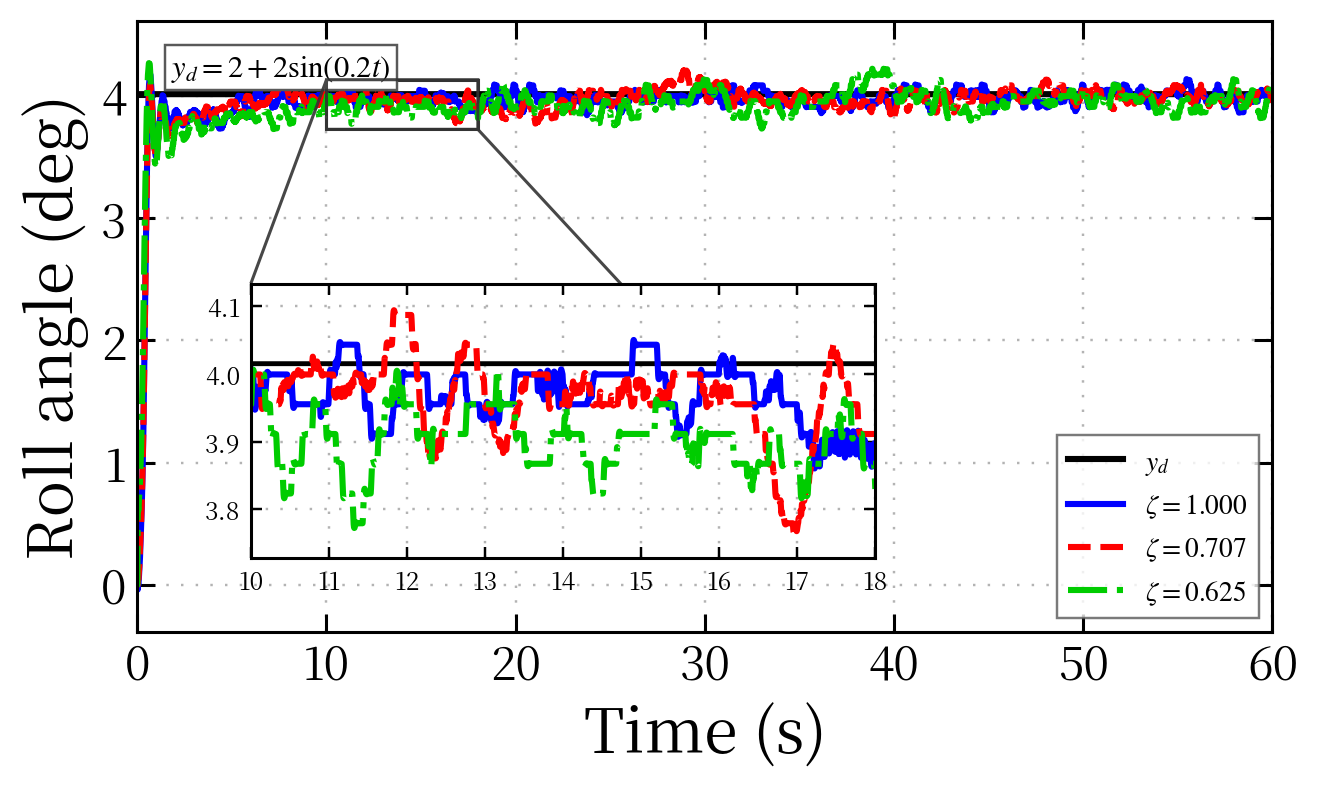
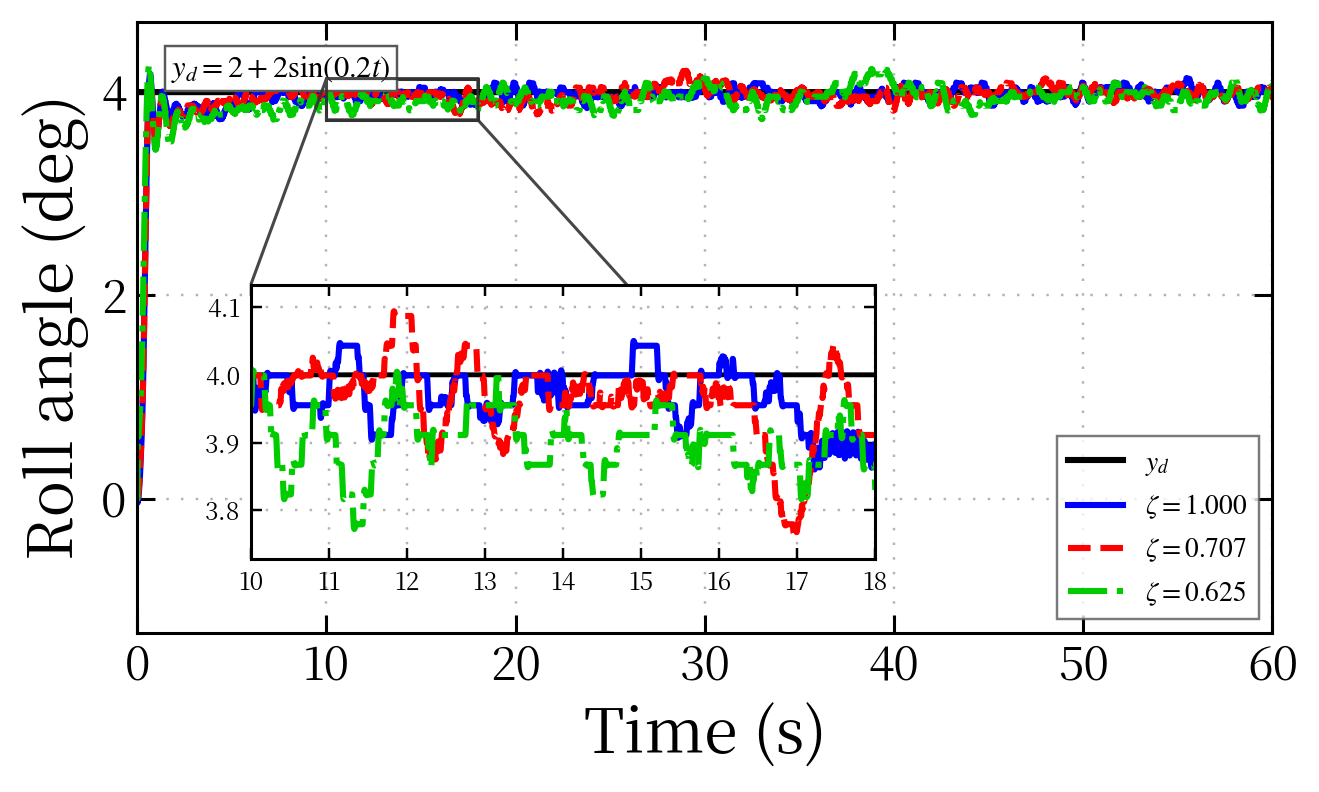
0406_first_complete

diff --git a/hitbook/chinese/body/5th.tex b/hitbook/chinese/body/5th.tex
@@ -173,11 +173,11 @@ u_i &= \mathrm{sat}(u_{c,i}),\\
 
 \subsection{实验1：预设阻尼比滑模反步控制实验}[Experiment 1: preset damping-ratio sliding-mode backstepping control]
 
-本实验采用第2章提出的神经网络预设阻尼比控制方法，在四旋翼悬浮机平台三姿态通道上进行验证。实验包含常值参考与时变参考两类任务，并在三组阻尼比参数（如 $\zeta=0.625,\ 0.707,\ 1.000$）下比较系统响应。考虑到纯 SBC+$\zeta$ 结构在实物平台上更容易受到强非线性影响而出现明显抖振，因此本节将其作为代表性对比基线单独展示，而将阻尼比可调性的主结果集中体现在神经网络方法的三组阻尼比实验曲线中。
+本实验采用第2章提出的神经网络预设阻尼比控制方法，在四旋翼悬浮机平台三姿态通道上进行验证。实验包含常值参考与时变参考两类任务，并在三组阻尼比参数（$\zeta=0.625,\ 0.707,\ 1.000$）下比较系统响应。考虑到纯 SBC+$\zeta$ 结构在实物平台上更容易受到强非线性影响而出现明显抖振，因此本节将其作为代表性对比基线单独展示，而将阻尼比可调性的主结果集中体现在神经网络方法的三组阻尼比实验曲线中。实验1的重点在于说明：在神经网络补偿主要未知非线性之后，预设阻尼比对应的瞬态差异能够在实物平台上更清楚地呈现出来。
 
 \subsubsection{常值参考实验}
 
-在常值信号跟踪任务中，图\ref{fig:ch5_sbc_const_pitch}--图\ref{fig:ch5_ann_const_yaw} 左列给出了纯 SBC+$\zeta$ 方法在三姿态通道上的实测结果，右列给出了神经网络预设阻尼比控制方法在相同通道上的实验结果。可以看到，在强非线性实物平台上，纯 SBC+$\zeta$ 方案虽然能够维持基本跟踪，但更容易在稳态附近出现较明显的高频抖振，这会掩盖阻尼比调节对输出瞬态形态的影响。相比之下，神经网络方法在三组阻尼比 $\zeta=1.000$、$\zeta=0.707$ 与 $\zeta=0.625$ 下能够更清晰地呈现出上升快慢、峰值变化和响应平缓程度的差异，从而更好地体现本文阻尼比可调设计的核心特点。
+在常值信号跟踪任务中，图\ref{fig:ch5_sbc_const_pitch}--图\ref{fig:ch5_ann_const_yaw} 左列给出了纯 SBC+$\zeta$ 方法在三姿态通道上的实测结果，右列给出了神经网络预设阻尼比控制方法在相同通道上的实验结果。可以看到，在强非线性实物平台上，纯 SBC+$\zeta$ 方案虽然能够维持基本跟踪，但更容易在稳态附近出现较明显的高频抖振，这会掩盖阻尼比调节对输出瞬态形态的影响。相比之下，神经网络方法在三组阻尼比 $\zeta=1.000$、$\zeta=0.707$ 与 $\zeta=0.625$ 下能够更清晰地呈现出上升快慢、峰值变化和响应平缓程度的差异，从而说明神经网络补偿后阻尼比可调性在实物平台上能够较为清楚地呈现。
 
 \begin{figure}[htbp]
   \centering
@@ -318,11 +318,11 @@ u_i &= \mathrm{sat}(u_{c,i}),\\
 
 \subsection{实验2：二阶指令滤波抗扰预设阻尼比滑模反步控制实验}[Experiment 2: command-filter anti-disturbance preset damping-ratio SMB control]
 
-本实验采用第3章提出的二阶指令滤波抗扰预设阻尼比滑模反步控制器，在与实验1相同的姿态命令下开展对比验证。为突出抗扰设计对 四旋翼悬浮机平台姿态跟踪性能的改善作用，左列给出无抗扰补偿时的实验结果，右列给出加入二阶指令滤波抗扰机制后的实验结果；每幅图内同时保留三组阻尼比曲线，用于比较抗扰能力与阻尼比调节效果的综合表现。
+本实验采用第3章提出的二阶指令滤波抗扰预设阻尼比滑模反步控制器，在与实验1相同的姿态命令下开展对比验证。为突出抗扰设计对四旋翼悬浮机平台姿态跟踪性能的改善作用，左列给出无抗扰补偿时的实验结果，右列给出加入二阶指令滤波抗扰机制后的实验结果；每幅图内同时保留三组阻尼比曲线，用于比较抗扰能力与阻尼比调节效果的综合表现。实验2的重点在于说明：在外界扰动存在时，二阶指令滤波抗扰机制能够使系统恢复更快、响应更平滑。
 
 \subsubsection{常值参考实验}
 
-常值参考实验用于观察在固定姿态命令下，外界扰动存在时三轴响应的恢复过程。图\ref{fig:ch5_exp2_const_roll_left}--图\ref{fig:ch5_exp2_const_yaw_right} 中，左列为无抗扰补偿时的实测结果，右列为加入二阶指令滤波抗扰机制后的结果。可以看到，在相同阻尼比设定下，抗扰补偿后曲线在方框标示区间内更快回到稳定跟踪状态，说明该方法能够有效削弱扰动对姿态通道瞬态过程的破坏。
+常值参考实验用于观察在固定姿态命令下，外界扰动存在时三轴响应的恢复过程。图\ref{fig:ch5_exp2_const_roll_left}--图\ref{fig:ch5_exp2_const_yaw_right} 中，左列为无抗扰补偿时的实测结果，右列为加入二阶指令滤波抗扰机制后的结果。可以看到，在相同阻尼比设定下，右列曲线在受扰后更快回到稳定跟踪状态，且局部波动更小，说明二阶指令滤波抗扰机制能够有效削弱扰动对姿态通道瞬态过程的破坏，使恢复过程更快、更平滑。
 
 \begin{figure}[htbp]
   \centering
@@ -375,7 +375,7 @@ u_i &= \mathrm{sat}(u_{c,i}),\\
 \FloatBarrier
 \subsubsection{时变参考实验}
 
-时变参考实验进一步用于考察连续变化姿态命令下的动态抗扰性能。图\ref{fig:ch5_exp2_sine_roll_left}--图\ref{fig:ch5_exp2_sine_yaw_right} 给出了三轴在时变参考输入和外界扰动共同作用下的实测结果。与左列无抗扰补偿情形相比，右列加入二阶指令滤波抗扰机制后，姿态输出在方框标示区间内的偏离程度整体减小，动态恢复更快，表明该方法在连续跟踪任务中同样能够保持较好的抗扰效果。
+时变参考实验进一步用于考察连续变化姿态命令下的动态抗扰性能。图\ref{fig:ch5_exp2_sine_roll_left}--图\ref{fig:ch5_exp2_sine_yaw_right} 给出了三轴在时变参考输入和外界扰动共同作用下的实测结果。与左列无抗扰补偿情形相比，右列加入二阶指令滤波抗扰机制后，姿态输出在对应区间内的偏离程度整体减小，动态恢复更快且曲线更平滑，表明该方法在连续跟踪任务中同样能够保持较好的抗扰效果。
 
 \begin{figure}[htbp]
   \centering
@@ -461,9 +461,9 @@ u_i &= \mathrm{sat}(u_{c,i}),\\
 
 \subsection{实验3：抗饱和预设阻尼比滑模反步控制实验}[Experiment 3: anti-windup preset damping-ratio SMB control]
 
-本实验采用第4章的抗饱和预设阻尼比滑模反步控制器，在输入限幅条件下开展 四旋翼悬浮机平台三轴姿态对比实验。实验数据来自常值参考与时变参考两组实测结果，其中 `base` 表示未加入抗饱和补偿，`sat` 表示加入抗饱和辅助动态后的控制结果。为便于比较抗饱和补偿对不同阻尼比设置的影响，图中统一给出 $\zeta=1.000$、$\zeta=0.707$ 与 $\zeta=0.625$ 三组实验曲线。
+本实验采用第4章的抗饱和预设阻尼比滑模反步控制器，在输入限幅条件下开展四旋翼悬浮机平台三轴姿态对比实验。实验数据来自常值参考与时变参考两组实测结果，其中 `base` 表示未加入抗饱和补偿，`sat` 表示加入抗饱和辅助动态后的控制结果。为便于比较抗饱和补偿对不同阻尼比设置的影响，图中统一给出 $\zeta=1.000$、$\zeta=0.707$ 与 $\zeta=0.625$ 三组实验曲线。实验3的重点在于说明：抗饱和补偿能够减轻输入限幅对原有阻尼规律的破坏，使闭环响应在受限工况下仍保持较好的瞬态品质。
 
-从实验现象看，在执行器接近饱和的区间内，未加入抗饱和补偿时，姿态输出更容易出现响应滞后、恢复较慢或局部振荡增强；加入抗饱和补偿后，输出曲线在相同阻尼比设定下通常更接近目标响应轨迹，饱和后的恢复过程也更平滑。为突出这一差异，以下各图均用方框标出了抗饱和补偿作用较明显的时间区间。
+从实验现象看，在执行器接近饱和的区间内，未加入抗饱和补偿时，姿态输出更容易出现响应滞后、恢复较慢或局部振荡增强；加入抗饱和补偿后，输出曲线在相同阻尼比设定下通常更接近目标响应轨迹，饱和后的恢复过程也更平滑。这说明抗饱和补偿能够减轻输入限幅对原有阻尼比整定规律的破坏，使不同阻尼比对应的瞬态差异在受限工况下仍具有较好的可观察性。
 
 \subsubsection{常值参考实验}
 

diff --git a/hitbook/chinese/scripts/ch5_exp2_plot.py b/hitbook/chinese/scripts/ch5_exp2_plot.py
@@ -58,6 +58,16 @@ def experimental_sine_reference(axis, t):
     raise ValueError(axis)
 
 
+def experimental_constant_reference(axis, t):
+    if axis == 'yaw':
+        return np.full_like(t, 6.0)
+    if axis == 'pitch':
+        return np.full_like(t, 5.0)
+    if axis == 'roll':
+        return np.full_like(t, 4.0)
+    raise ValueError(axis)
+
+
 def reference_label(axis):
     if axis == 'yaw':
         return r'$y_d=3+3\sin(0.1t)$'
@@ -89,8 +99,7 @@ def load_column(mode: str, side: str, axis: str):
 
 def make_reference(mode: str, axis: str, t, traces):
     if mode == 'const':
-        target = np.mean([y[-200:].mean() for y in traces.values()])
-        return np.full_like(t, target)
+        return experimental_constant_reference(axis, t)
     return experimental_sine_reference(axis, t)
 
 
